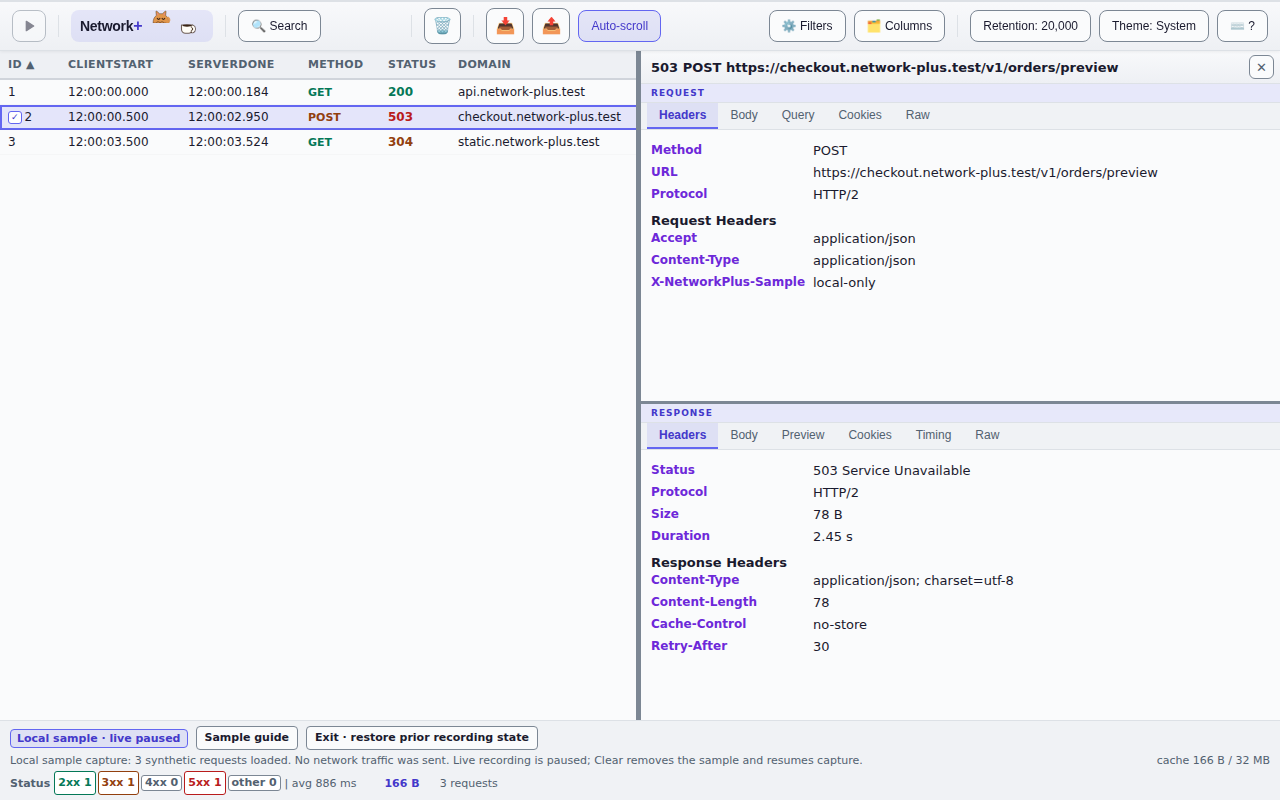
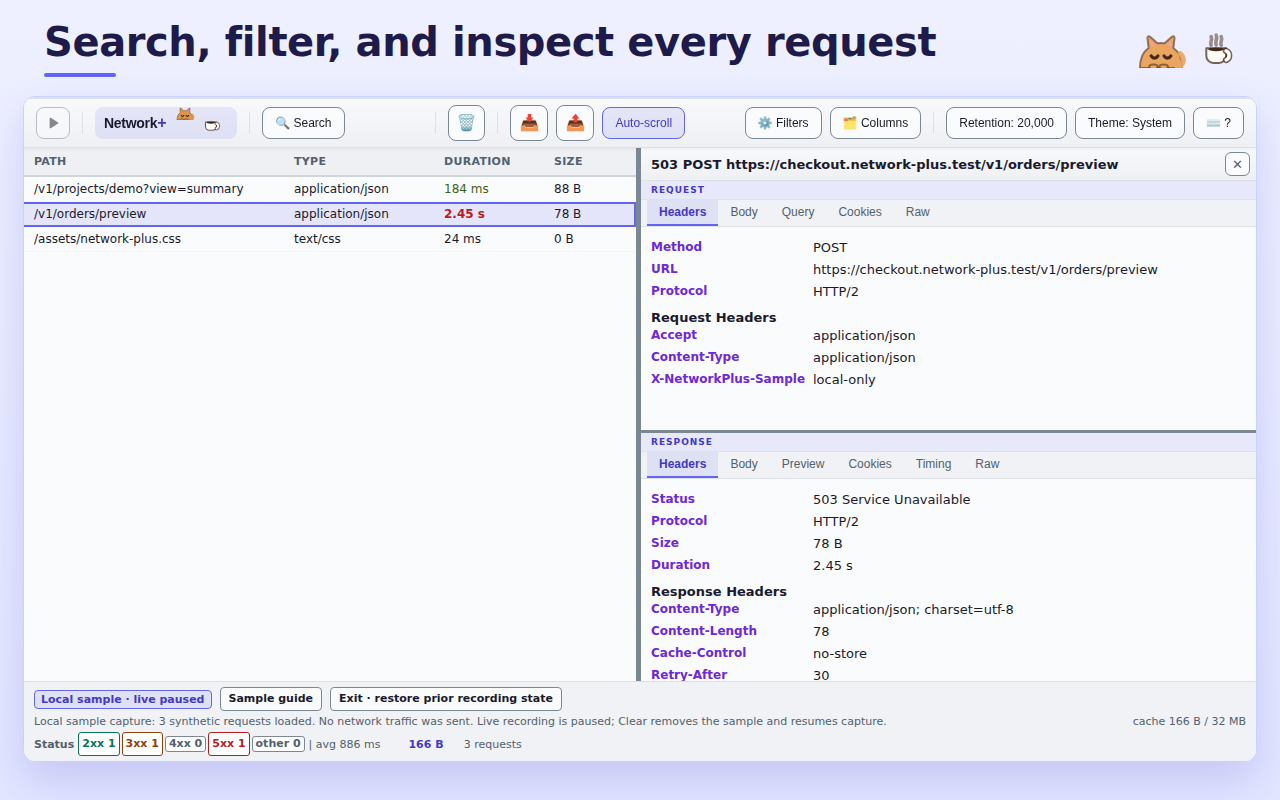
feat: redesign the store listing media around the shipped brand
The promotional tile still showed an otter, a mascot from before the cat
brand existed, and the screenshots were bare panel captures. The tile is
redrawn as the sleeping-cat-and-cup scene rendered from the very SVG
paths panel.html ships, so the listing and the toolbar can never drift
apart. A 1400x560 marquee is new: the listing had only screenshots, and
without a marquee it cannot appear in featured placements.

The four screenshots become compositions: a one-line headline band over
the panel view, captured natively at its final pixel size and placed
unscaled, so the panel text stays as sharp as a bare capture while the
frame explains what the viewer is looking at. The tour GIF opens with a
brand title card and captions each of its four steps.

Everything remains synthetic-only, and the new marquee is under the same
size, provenance, and PNG-header checks as every other asset.

Claude-Session: https://claude.ai/code/session_0124M1SVHRgJnNrGMbz4rPpK

Changed region(s): [[0.0, 0.0, 1.0, 1.0]]

diff --git a/scripts/check-store-readiness.js b/scripts/check-store-readiness.js
@@ -11,7 +11,7 @@ const ASSET_DIRECTORY = 'docs/store-assets';
 // The synthetic store assets and the privacy notice are reviewed independently.
 // Keep the dates separate so a privacy-text change does not imply the PNG
 // inventory was re-reviewed on the same day.
-const ASSET_REVIEW_DATE = '2026-08-19';
+const ASSET_REVIEW_DATE = '2026-08-20';
 const PRIVACY_REVIEW_DATE = '2026-08-18';
 const MIN_DESCRIPTION_CHARACTERS = 250;
 const MAX_DESCRIPTION_CHARACTERS = 10000;
@@ -141,7 +141,14 @@ const EXPECTED_ASSETS = Object.freeze({
     kind: 'promotional-tile',
     width: 440,
     height: 280,
-    source: 'Image generation using the Network+ logo and synthetic request-detail screenshot as references',
+    source: 'Playwright render of the brand-mark SVG paths from panel.html; no captured traffic',
+    domains: Object.freeze([]),
+  }),
+  'chrome-marquee-1400x560.png': Object.freeze({
+    kind: 'promotional-marquee',
+    width: 1400,
+    height: 560,
+    source: 'Playwright render of the brand-mark SVG paths from panel.html; no captured traffic',
     domains: Object.freeze([]),
   }),
   'screenshot-request-detail-1280x800.png': Object.freeze({

diff --git a/docs/chrome-web-store-submission.md b/docs/chrome-web-store-submission.md
@@ -71,8 +71,9 @@ Do not add unrelated search phrases to the description. Chrome Web Store metadat
 | Dashboard field | File | Status and notes |
 |---|---|---|
 | Store icon | `icons/icon128.png` | Required 128 x 128 PNG packaged in the ZIP. The current artwork is usable; Google's transparent-padding guidance should be treated as a visual-quality recommendation and rechecked in the dashboard preview. |
-| Small promo tile | `docs/store-assets/chrome-small-promo-440x280.png` | Required 440 x 280 PNG. Text-free, full-bleed Network+ branding with an otter investigator and abstract request/timing motifs. |
-| Screenshot 1 | `docs/store-assets/screenshot-request-detail-1280x800.png` | Required screenshot set; synthetic 503 request and response headers. |
+| Small promo tile | `docs/store-assets/chrome-small-promo-440x280.png` | Required 440 x 280 PNG. Full-bleed indigo brand scene — the sleeping Network+ cat beside a steaming cup above the wordmark — matching the shipped toolbar mark. |
+| Marquee promo | `docs/store-assets/chrome-marquee-1400x560.png` | Optional 1400 x 560 PNG for featured placements: the same brand scene with the wordmark and the feature tagline. |
+| Screenshot 1 | `docs/store-assets/screenshot-request-detail-1280x800.png` | Required screenshot set; headline band over an unscaled synthetic capture: 503 request and response headers. |
 | Screenshot 2 | `docs/store-assets/screenshot-timing-guidance-1280x800.png` | Synthetic timing evidence and observability guidance. |
 | Screenshot 3 | `docs/store-assets/screenshot-sample-guide-1280x800.png` | Prompt-first sample guide before evidence reveal. |
 | Screenshot 4 | `docs/store-assets/screenshot-sanitized-export-1280x800.png` | Sanitized HAR export shown as the safe default. |
@@ -195,7 +196,7 @@ Google returns a refresh token only when offline access is requested and the con
 
 - Confirm the developer account owner, publisher name, verified email, and one-time registration fee in the live dashboard.
 - Download the release ZIP from the trusted route and match its exact size and SHA-256 before upload.
-- Upload the ZIP, 128 x 128 icon, required 440 x 280 promo tile, and four 1280 x 800 screenshots.
+- Upload the ZIP, 128 x 128 icon, required 440 x 280 promo tile, optional 1400 x 560 marquee, and four 1280 x 800 screenshots.
 - Paste the reviewed listing, single-purpose statement, permission justification, remote-code answer, data-use declarations, privacy URL, distribution choice, and test instructions.
 - Open the privacy URL signed out and verify that it describes both Chrome and Edge accurately.
 - Preview the listing at desktop and reduced image sizes. Confirm that no image looks like a browser control or contains illegible text.

diff --git a/docs/CHANGELOG.md b/docs/CHANGELOG.md
@@ -4,6 +4,7 @@ All notable changes to Network+ for DevTools. Versions follow [Semantic Versioni
 
 ## Unreleased
 
+- Redesigned the store listing media around the shipped brand. The promotional tile drops its pre-cat otter design for the sleeping-cat-and-cup scene rendered from the very SVG paths the toolbar ships; a 1400x560 marquee promo is new, so the listing qualifies for featured placements; the four screenshots are now compositions — a one-line headline over an unscaled, natively captured panel view, so the pixels stay sharp — and the README tour GIF opens with a brand title card and captions each of its four steps. Every asset remains synthetic-only and is size- and provenance-checked by `store:check`.
 - Added `npm run store:setup`, a guided runner for the one-time credential setup the store automation needs. It opens each portal page at the point it is needed, stops for the parts only a signed-in operator can do, checks the shape of the two identifiers whose format is documented, and pipes each value into the `store-submission` environment over stdin rather than as a command-line argument, so no credential reaches a file, the terminal scrollback, or the process table. The stored names are read back afterwards to prove the workflow will find them.
 - Store submission is now automated. Publishing a GitHub release also uploads that release's archive to the existing Microsoft Edge Add-ons product and Chrome Web Store item and submits it for review; the same run can be started by hand from the Actions tab, for one store or both, and can stop after the upload instead of submitting. The archive is rebuilt and its SHA-256 compared against the digest the submission dossiers pin before anything is uploaded, so a store can only receive reviewed bytes. Credentials are read from repository secrets held by a dedicated `store-submission` environment, are redacted out of every message the run prints, and a store with no credentials configured is skipped rather than failing the other one. A helper, `scripts/chrome-refresh-token.js`, obtains the Chrome refresh token through a loopback consent flow, because the published guide still documents the out-of-band redirect that Google retired and a client created today is refused by it.
 - Recorded the published v1.9.0 release in the Microsoft Edge and Chrome submission dossiers: the ZIP was re-downloaded from the public release, its 151681-byte size and SHA-256 digest were verified against the value the store kits pin, and the downloaded file was byte-compared against the local build.

diff --git a/docs/edge-addons-submission.md b/docs/edge-addons-submission.md
@@ -163,12 +163,13 @@ No account, credentials, subscription, remote service, or live customer traffic 
 
 ## Asset inventory
 
-All screenshots are 1280 x 800 PNG files and depict only deterministic data produced by `createSampleCaptureRequests()` in `panel.js`. The `.test` domains are reserved for examples. The captures contain no real browsing history, credentials, customer traffic, account UI, private data, store UI, or certification status.
+Each screenshot is a 1280 x 800 composition: a one-line headline band above an unscaled, natively captured panel view. The panel content depicts only deterministic data produced by `createSampleCaptureRequests()` in `panel.js`. The `.test` domains are reserved for examples. The captures contain no real browsing history, credentials, customer traffic, account UI, private data, store UI, or certification status.
 
 | File | Depicted state | Synthetic evidence |
 |---|---|---|
 | `docs/store-assets/logo-300.png` | 300 x 300 Network+ logo derived from the checked-in extension mark | No traffic data |
-| `docs/store-assets/chrome-small-promo-440x280.png` | 440 x 280 text-free Network+ promotional tile with an otter investigator and abstract request/timing motifs | No traffic data; also satisfies the Chrome Web Store required small-promo size |
+| `docs/store-assets/chrome-small-promo-440x280.png` | 440 x 280 indigo brand tile: sleeping cat, steaming cup, and the Network+ wordmark | No traffic data; also satisfies the Chrome Web Store required small-promo size |
+| `docs/store-assets/chrome-marquee-1400x560.png` | 1400 x 560 brand marquee: the same scene with the wordmark and feature tagline | No traffic data; used by Chrome Web Store featured placements |
 | `docs/store-assets/screenshot-request-detail-1280x800.png` | Request grid with the synthetic 503 row selected and response headers visible | `checkout.network-plus.test`, `Retry-After: 30`, local sample status |
 | `docs/store-assets/screenshot-timing-guidance-1280x800.png` | Response Timing view and timing interpretation guidance | 2,450 ms total, 2,200 ms Wait (TTFB), browser-evidence limitation |
 | `docs/store-assets/screenshot-sample-guide-1280x800.png` | Prompt-first Sample evidence guide before reveal | Four questions only; no answer is revealed in this capture |
